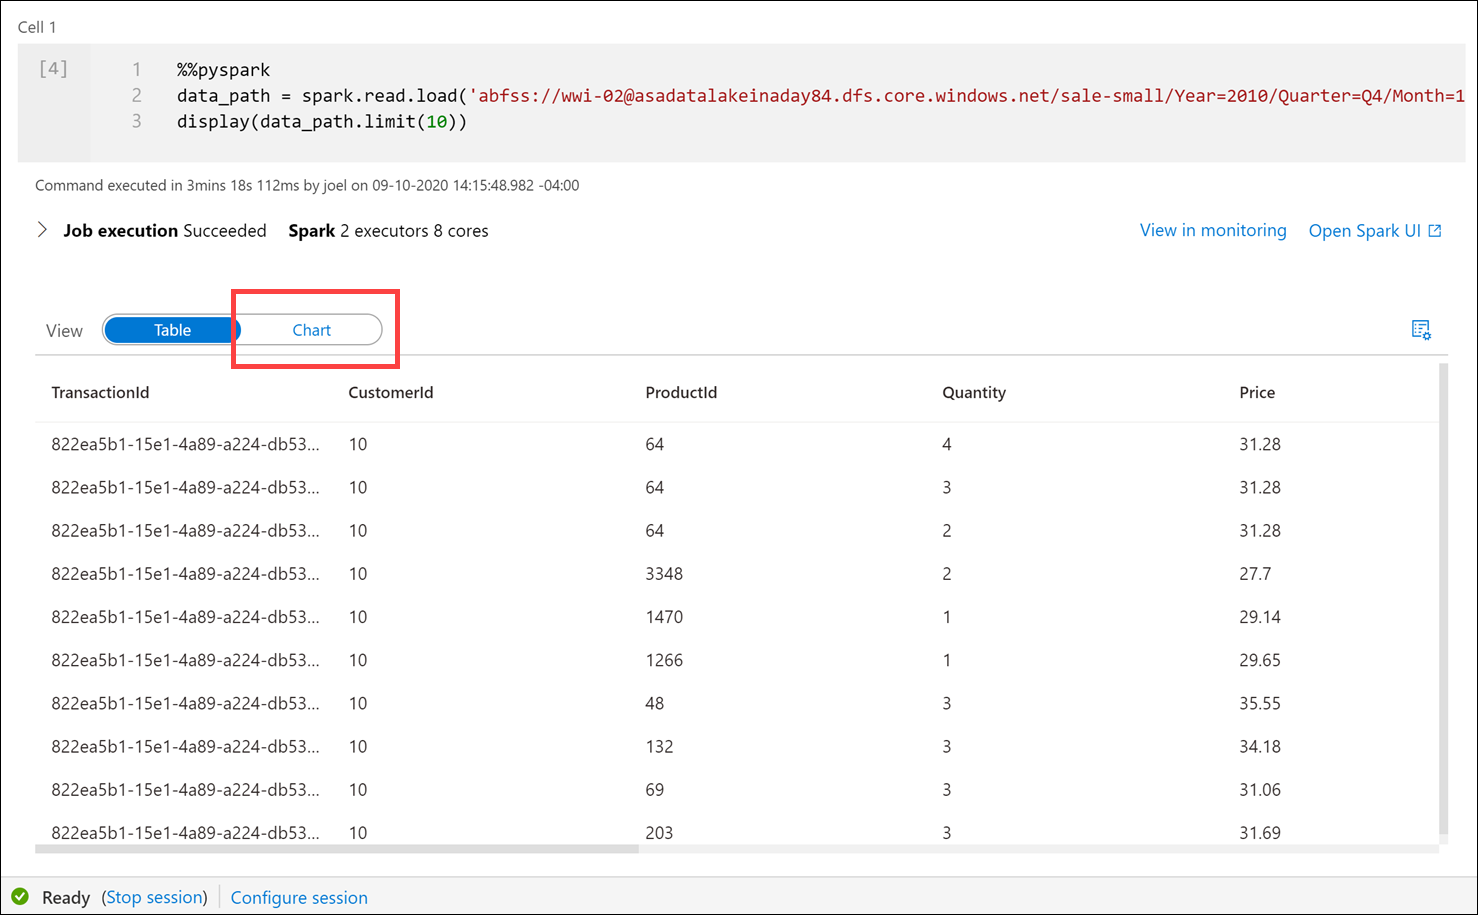
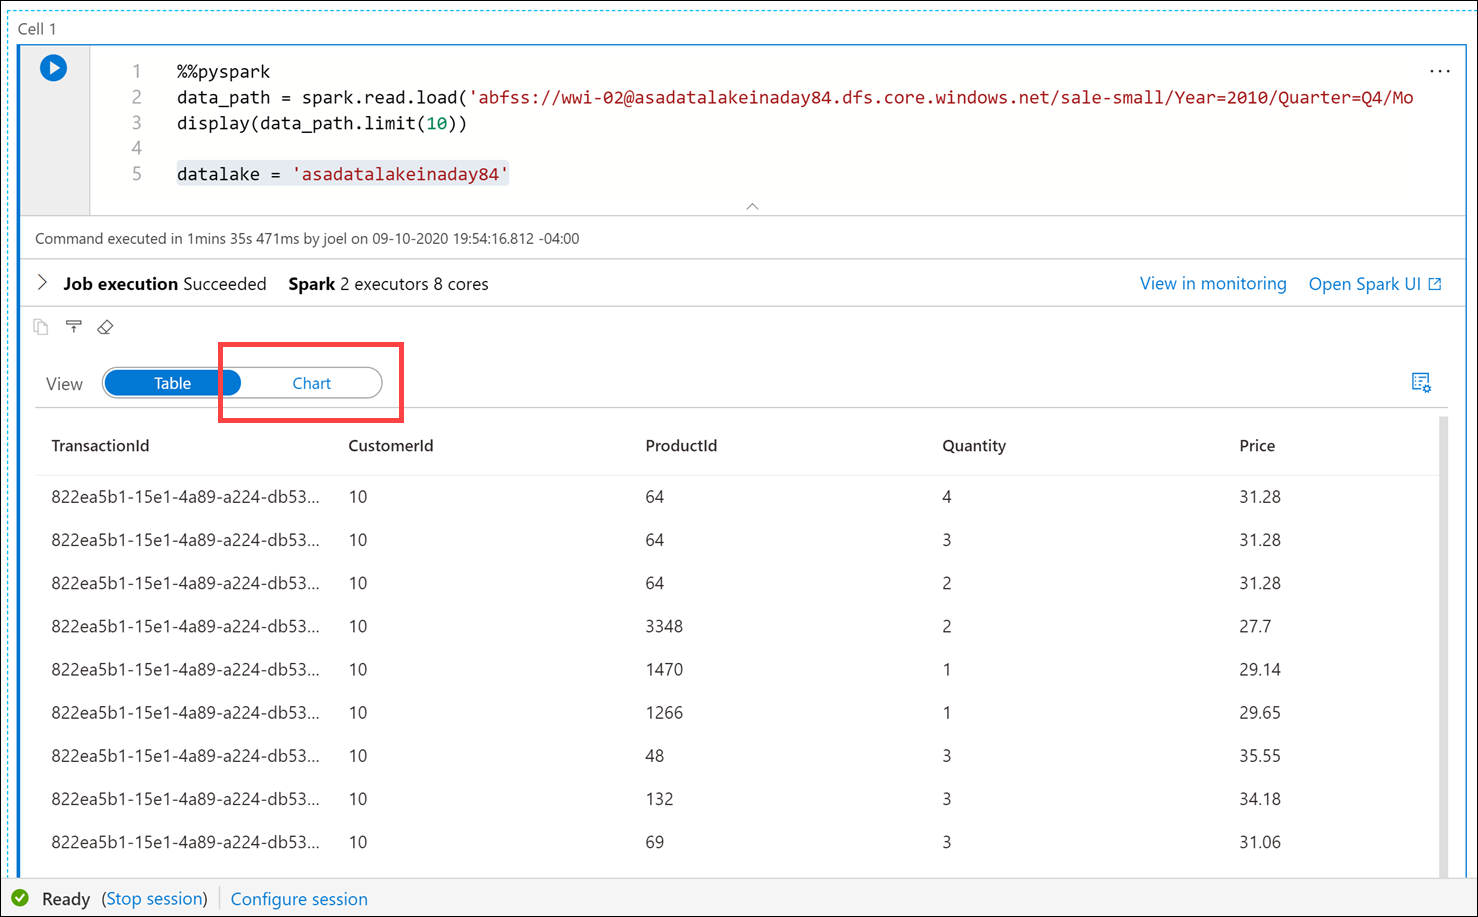
Integrating SQL and Spark pools

diff --git a/demos/module3/README.md b/demos/module3/README.md
@@ -55,7 +55,17 @@ You recommend using the Data hub to view the Parquet files in the connected stor
 
     We have just set the number of executors allocated to **SparkPool01** for the session.
 
-7. Select **Run all** on the notebook toolbar to execute the notebook.
+7. Add the following beneath the code in the cell to define a variable named `datalake` whose value is the name of the primary storage account (**replace the REPLACE_WITH_YOUR_DATALAKE_NAME value with the name of the storage account in line 2**):
+
+    ```python
+    datalake = 'REPLACE_WITH_YOUR_DATALAKE_NAME'
+    ```
+
+    ![The variable value is updated with the storage account name.](media/datalake-variable.png "datalake variable")
+
+    This variable will be used in a couple cells later on.
+
+8. Select **Run all** on the notebook toolbar to execute the notebook.
 
     ![Run all is highlighted.](media/notebook-run-all.png "Run all")
 
@@ -63,29 +73,29 @@ You recommend using the Data hub to view the Parquet files in the connected stor
 
     > **Note:** To run just the cell, either hover over the cell and select the _Run cell_ icon to the left of the cell, or select the cell then type **Ctrl+Enter** on your keyboard.
 
-8. After the cell run is complete, change the View to **Chart** in the cell output.
+9. After the cell run is complete, change the View to **Chart** in the cell output.
 
     ![The Chart view is highlighted.](media/2010-sale-parquet-table-output.png "Cell 1 output")
 
     By default, the cell outputs to a table view when we use the `display()` function. We see in the output the sales transaction data stored in the Parquet file for December 31, 2010. Let's select the **Chart** visualization to see a different view of the data.
 
-9. Select the **View options** button to the right.
+10. Select the **View options** button to the right.
 
     ![The button is highlighted.](media/2010-sale-parquet-chart-options-button.png "View options")
 
-10. Set Key to **`ProductId`** and Values to **`TotalAmount` (1)**, then select **Apply**.
+11. Set Key to **`ProductId`** and Values to **`TotalAmount` (1)**, then select **Apply**.
 
     ![The options are configured as described.](media/2010-sale-parquet-chart-options.png "View options")
 
-11. The chart visualization is displayed. Hover over the bars to view details.
+12. The chart visualization is displayed. Hover over the bars to view details.
 
     ![The configured chart is displayed.](media/2010-sale-parquet-chart.png "Chart view")
 
-12. Create a new cell underneath by selecting **{} Add code** when hovering over the blank space at the bottom of the notebook.
+13. Create a new cell underneath by selecting **{} Add code** when hovering over the blank space at the bottom of the notebook.
 
     ![The Add code button is highlighted underneath the chart.](media/chart-add-code.png "Add code")
 
-13. The Spark engine can analyze the Parquet files and infer the schema. To do this, enter the following in the new cell and **run** it:
+14. The Spark engine can analyze the Parquet files and infer the schema. To do this, enter the following in the new cell and **run** it:
 
     ```python
     data_path.printSchema()
@@ -110,7 +120,7 @@ You recommend using the Data hub to view the Parquet files in the connected stor
 
     Spark evaluates the file contents to infer the schema. This automatic inference is usually sufficient for data exploration and most transformation tasks. However, when you load data to an external resource like a SQL pool table, sometimes you need to declare your own schema and apply that to the dataset. For now, the schema looks good.
 
-14. Now let's use the dataframe to use aggregates and grouping operations to better understand the data. Create a new cell and enter the following, then **run** the cell:
+15. Now let's use the dataframe to use aggregates and grouping operations to better understand the data. Create a new cell and enter the following, then **run** the cell:
 
     ```python
     from pyspark.sql import SparkSession
@@ -144,16 +154,14 @@ You recommend using Synapse Notebooks to explore and apply data transformations 
 
     ```python
     df = (spark.read \
-            .option("inferSchema", "true") \
-            .json("abfss://wwi-02@asadatalakeSUFFIX.dfs.core.windows.net/online-user-profiles-02/*.json", multiLine=True)
+            .option('inferSchema', 'true') \
+            .json('abfss://wwi-02@' + datalake + '.dfs.core.windows.net/online-user-profiles-02/*.json', multiLine=True)
         )
 
     df.printSchema()
     ```
 
-    **Note to presenter**: The screenshot below has the data lake name highlighted where you can find the name of **your data lake** in the first cell.
-
-    ![The data lake name is highlighted.](media/data-lake-name.png "Data lake name")
+    > The `datalake` variable we created in the first cell is used here as part of the file path.
 
     Your output should look like the following:
 
@@ -349,3 +357,114 @@ You recommend using Synapse Notebooks to explore and apply data transformations 
     ![The query output is displayed.](media/spark-grouped-top-purchases-total-items.png "Grouped top total items output")
 
 ## Integrating SQL and Spark pools in Azure Synapse Analytics
+
+Tailwind Traders wants to write to the SQL pool after performing data engineering tasks in Spark, then reference the SQL pool data as a source for joining with Spark dataframes that contain data from other files.
+
+You decide to use the Azure Synapse Apache Spark to Synapse SQL connector to efficiently transfer data between Spark pools and SQL pools in Azure Synapse.
+
+Transferring data between Spark pools and SQL pools can be done using JDBC. However, given two distributed systems such as Spark and SQL pools, JDBC tends to be a bottleneck with serial data transfer.
+
+The Azure Synapse Apache Spark pool to Synapse SQL connector is a data source implementation for Apache Spark. It uses the Azure Data Lake Storage Gen2 and PolyBase in SQL pools to efficiently transfer data between the Spark cluster and the Synapse SQL instance.
+
+1. We have been using Python code in these cells up to this point. If we want to use the Apache Spark pool to Synapse SQL connector (`sqlanalytics`), one option is to create a temporary view of the data within the dataframe. Execute the following in a new cell to create a view named `top_purchases`:
+
+    ```python
+    # Create a temporary view for top purchases so we can load from Scala
+    topPurchases.createOrReplaceTempView("top_purchases")
+    ```
+
+    We created a new temporary view from the `topPurchases` dataframe that we created earlier and which contains the flattened JSON user purchases data.
+
+2. We must execute code that uses the Apache Spark pool to Synapse SQL connector in Scala. To do this, we add the `%%spark` magic to the cell. Execute the following in a new cell to read from the `top_purchases` view:
+
+    ```java
+    %%spark
+    // Make sure the name of the SQL pool (SQLPool01 below) matches the name of your SQL pool.
+    val df = spark.sqlContext.sql("select * from top_purchases")
+    df.write.sqlanalytics("SQLPool01.wwi.TopPurchases", Constants.INTERNAL)
+    ```
+
+    > **Note to presenter**: The cell may take over a minute to execute. If you have run this command before, you will receive an error stating that "There is already and object named.." because the table already exists.
+
+    After the cell finishes executing, let's take a look at the list of SQL pool tables to verify that the table was successfully created for us.
+
+3. **Leave the notebook open**, then navigate to the **Data** hub (if not already selected).
+
+    ![The data hub is highlighted.](media/data-hub.png "Data hub")
+
+4. Select the **Workspace** tab **(1)**, expand the SQL pool, select the **ellipses (...)** on Tables **(2)** and select **Refresh (3)**. Expand the **`wwi.TopPurchases`** table and columns **(4)**.
+
+    ![The table is displayed.](media/toppurchases-table.png "TopPurchases table")
+
+    As you can see, the `wwi.TopPurchases` table was automatically created for us, based on the derived schema of the Spark dataframe. The Apache Spark pool to Synapse SQL connector was responsible for creating the table and efficiently loading the data into it.
+
+5. **Return to the notebook** and execute the following in a new cell to read sales data from all the Parquet files located in the `sale-small/Year=2019/Quarter=Q4/Month=12/` folder:
+
+    ```python
+    dfsales = spark.read.load('abfss://wwi-02@' + datalake + '.dfs.core.windows.net/sale-small/Year=2019/Quarter=Q4/Month=12/*/*.parquet', format='parquet')
+    display(dfsales.limit(10))
+    ```
+
+    > **Note to presenter**: It can take over 3 minutes for this cell to execute.
+    >
+    > The `datalake` variable we created in the first cell is used here as part of the file path.
+
+    ![The cell output is displayed.](media/2019-sales.png "2019 sales")
+
+    Compare the file path in the cell above to the file path in the first cell. Here we are using a relative path to load **all December 2019 sales** data from the Parquet files located in `sale-small`, vs. just December 31, 2010 sales data.
+
+    Next, let's load the `TopSales` data from the SQL pool table we created earlier into a new Spark dataframe, then join it with this new `dfsales` dataframe. To do this, we must once again use the `%%spark` magic on a new cell since we'll use the Apache Spark pool to Synapse SQL connector to retrieve data from the SQL pool. Then we need to add the dataframe contents to a new temporary view so we can access the data from Python.
+
+6. Execute the following in a new cell to read from the `TopSales` SQL pool table and save it to a temporary view:
+
+    ```java
+    %%spark
+    // Make sure the name of the SQL pool (SQLPool01 below) matches the name of your SQL pool.
+    val df2 = spark.read.sqlanalytics("SQLPool01.wwi.TopPurchases")
+    df2.createTempView("top_purchases_sql")
+
+    df2.head(10)
+    ```
+
+    ![The cell and its output are displayed as described.](media/read-sql-pool.png "Read SQL pool")
+
+    The cell's language is set to `Scala` by using the `%%spark` magic **(1)** at the top of the cell. We declared a new variable named `df2` as a new DataFrame created by the `spark.read.sqlanalytics` method, which reads from the `TopPurchases` table **(2)** in the SQL pool. Then we populated a new temporary view named `top_purchases_sql` **(3)**. Finally, we showed the first 10 records with the `df2.head(10))` line **(4)**. The cell output displays the dataframe values **(5)**.
+
+7. Execute the following in a new cell to create a new dataframe in Python from the `top_purchases_sql` temporary view, then display the first 10 results:
+
+    ```python
+    dfTopPurchasesFromSql = sqlContext.table("top_purchases_sql")
+
+    display(dfTopPurchasesFromSql.limit(10))
+    ```
+
+    ![The dataframe code and output are displayed.](media/df-top-purchases.png "dfTopPurchases dataframe")
+
+8. Execute the following in a new cell to join the data from the sales Parquet files and the `TopPurchases` SQL pool:
+
+    ```python
+    inner_join = dfsales.join(dfTopPurchasesFromSql,
+        (dfsales.CustomerId == dfTopPurchasesFromSql.visitorId) & (dfsales.ProductId == dfTopPurchasesFromSql.productId))
+
+    inner_join_agg = (inner_join.select("CustomerId","TotalAmount","Quantity","itemsPurchasedLast12Months","top_purchases_sql.productId")
+        .groupBy(["CustomerId","top_purchases_sql.productId"])
+        .agg(
+            sum("TotalAmount").alias("TotalAmountDecember"),
+            sum("Quantity").alias("TotalQuantityDecember"),
+            sum("itemsPurchasedLast12Months").alias("TotalItemsPurchasedLast12Months"))
+        .orderBy("CustomerId") )
+
+    display(inner_join_agg.limit(100))
+    ```
+
+    In the query, we joined the `dfsales` and `dfTopPurchasesFromSql` dataframes, matching on `CustomerId` and `ProductId`. This join combined the `TopPurchases` SQL pool table data with the December 2019 sales Parquet data **(1)**.
+
+    We grouped by the `CustomerId` and `ProductId` fields. Since the `ProductId` field name is ambiguous (it exists in both dataframes), we had to fully-qualify the `ProductId` name to refer to the one in the `TopPurchases` dataframe **(2)**.
+
+    Then we created an aggregate that summed the total amount spent on each product in December, the total number of product items in December, and the total product items purchased in the last 12 months **(3)**.
+
+    Finally, we displayed the joined and aggregated data in a table view.
+
+    > **Note to presenter**: Feel free to click on the column headers in the Table view to sort the result set.
+
+    ![The cell contents and output are displayed.](media/join-output.png "Join output")
